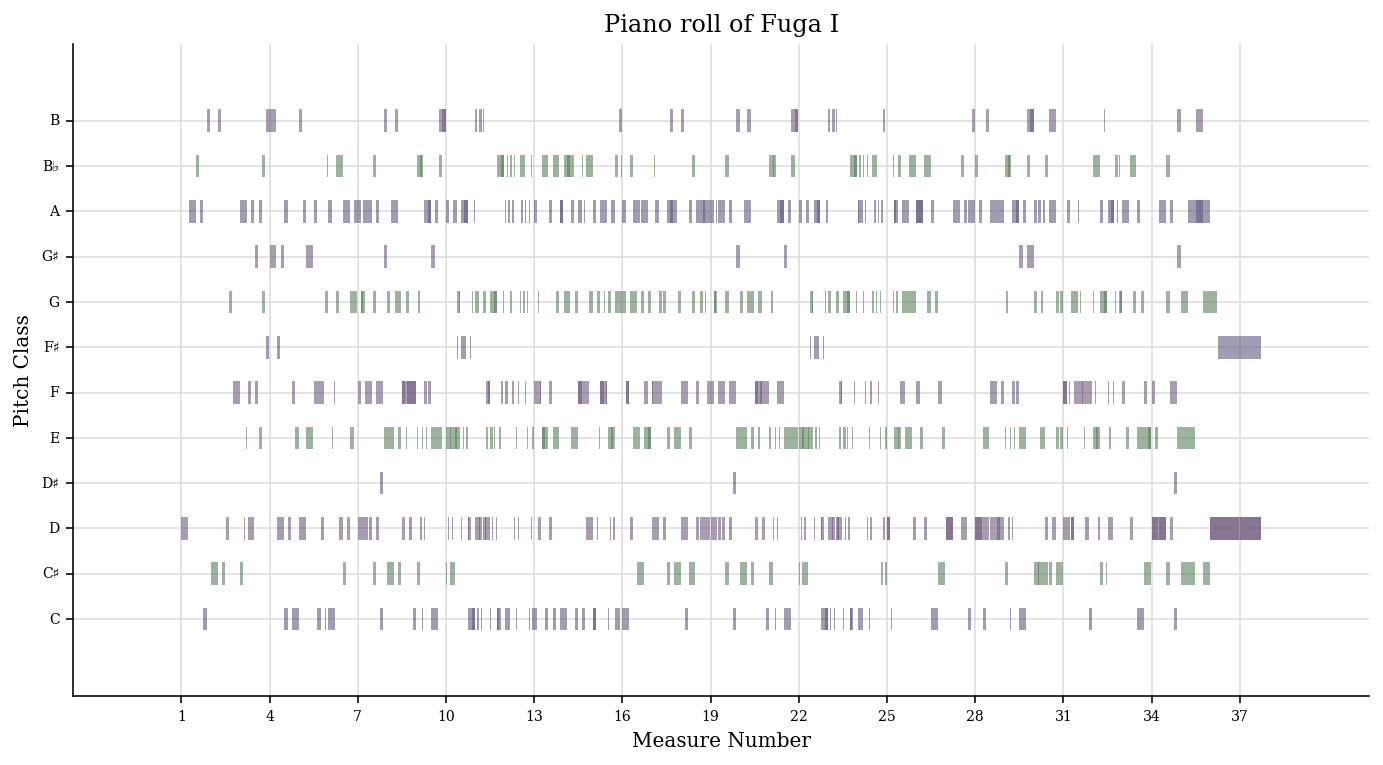
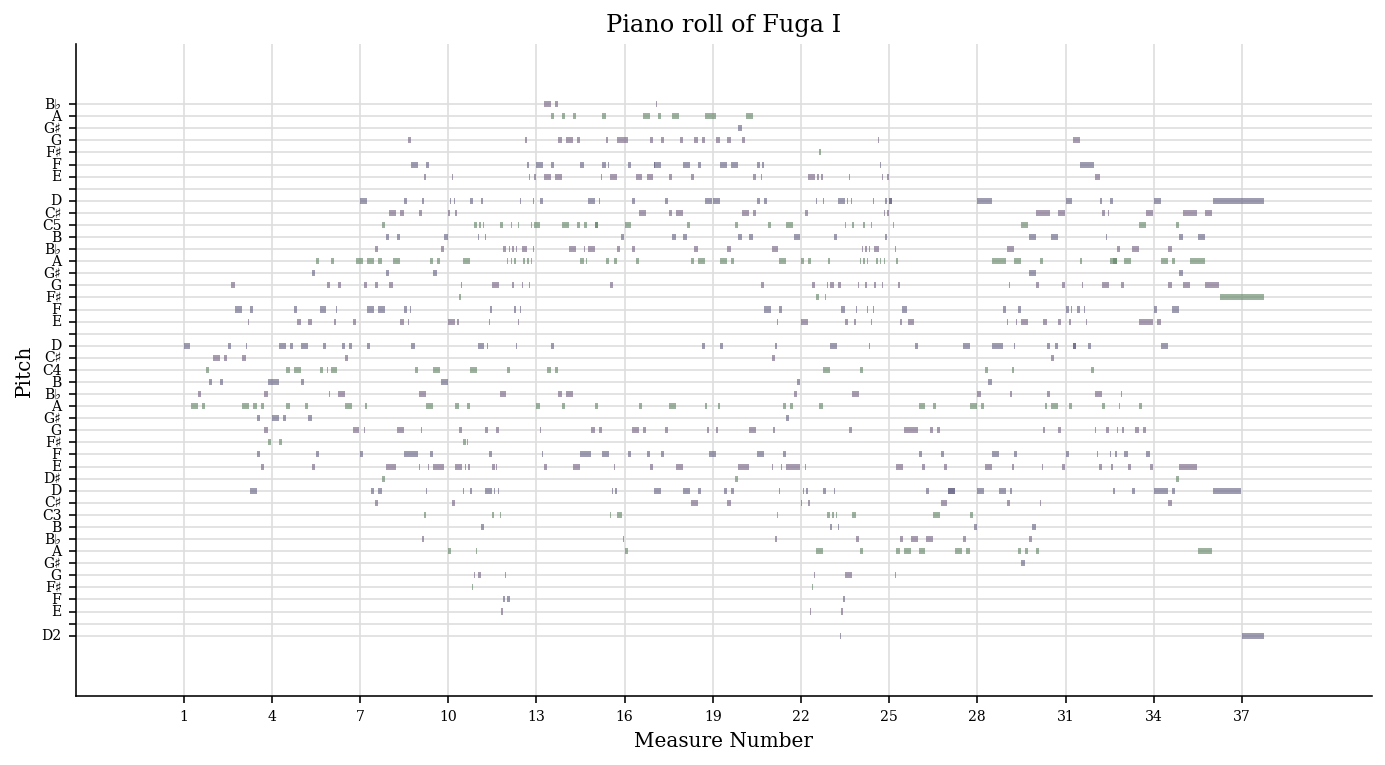
Correct missing image & add music21 version number

Changed region(s): [[0.0, 0.1203, 0.9949, 0.8418], [0.4353, 0.0, 0.5907, 0.0601], [0.4664, 0.932, 0.5907, 0.9922]]

diff --git a/public/index.html b/public/index.html
@@ -279,39 +279,39 @@ for the JavaScript code in this tag.
 <h2>Table of Contents</h2>
 <div id="text-table-of-contents">
 <ul>
-<li><a href="#orga31504f">Sitemap</a>
+<li><a href="#org3cd9d8f">Sitemap</a>
 <ul>
-<li><a href="#org8b521ba">♪&nbsp; Compositional ideas behind my Fuga I</a></li>
-<li><a href="#orgb183bf9">♪&nbsp; Some of my cryptograms to solve!</a></li>
+<li><a href="#orged55ebe">♪&nbsp; Compositional ideas behind my Fuga I</a></li>
+<li><a href="#orga215ab1">♪&nbsp; Some of my cryptograms to solve!</a></li>
 </ul>
 </li>
-<li><a href="#org5237f55">Compositional ideas behind Fuga I</a></li>
-<li><a href="#org749c023">1. Introduction</a></li>
-<li><a href="#org4ddf917">2. Music/Score</a></li>
-<li><a href="#org8b69cd2">3. Structural analysis</a>
+<li><a href="#org1a595c6">Compositional ideas behind Fuga I</a></li>
+<li><a href="#orgfd51247">1. Introduction</a></li>
+<li><a href="#orgf47c54f">2. Music/Score</a></li>
+<li><a href="#org929b780">3. Structural analysis</a>
 <ul>
-<li><a href="#org59acdc2">3.1. Structure diagram</a></li>
-<li><a href="#org9a3d5d9">3.2. Score analysis</a>
+<li><a href="#orgd816004">3.1. Structure diagram</a></li>
+<li><a href="#org33fa9bd">3.2. Score analysis</a>
 <ul>
-<li><a href="#org83b1d5b">3.2.1. Entries/episodes</a></li>
-<li><a href="#orgf15b4ea">3.2.2. Subjects/countersujects and invertible counterpoint</a></li>
+<li><a href="#org584485b">3.2.1. Entries/episodes</a></li>
+<li><a href="#orgc30b762">3.2.2. Subjects/countersujects and invertible counterpoint</a></li>
 </ul>
 </li>
 </ul>
 </li>
-<li><a href="#org8d2c778">4. Specific details</a>
+<li><a href="#org2ecc9a6">4. Specific details</a>
 <ul>
-<li><a href="#org034cc0d">4.1. Zenith/nadir of the piece</a></li>
-<li><a href="#org0d9ad8c">4.2. The strong-beat tritone in the lower voices</a></li>
-<li><a href="#org621546b">4.3. German sixth (übermässiger Quintsextakkord)</a></li>
-<li><a href="#org870ce5b">4.4. Double sequence</a></li>
+<li><a href="#org9adee14">4.1. Zenith/nadir of the piece</a></li>
+<li><a href="#orgd6b9baf">4.2. The strong-beat tritone in the lower voices</a></li>
+<li><a href="#org325fe6b">4.3. German sixth (übermässiger Quintsextakkord)</a></li>
+<li><a href="#org0f9529d">4.4. Double sequence</a></li>
 </ul>
 </li>
-<li><a href="#org8c2dd4c">5. Appendix: Computational Musicology</a>
+<li><a href="#org0d7c699">5. Appendix: Computational Musicology</a>
 <ul>
-<li><a href="#orgf753b87">5.1. Piano roll and other graphics</a></li>
-<li><a href="#org6653ad3">5.2. Key center</a></li>
-<li><a href="#org79127a9">5.3. Chords</a></li>
+<li><a href="#org01bfd74">5.1. Piano roll and other graphics</a></li>
+<li><a href="#org070297f">5.2. Key center</a></li>
+<li><a href="#orgcf6915e">5.3. Chords</a></li>
 </ul>
 </li>
 </ul>
@@ -327,19 +327,19 @@ Welcome to Francisco's personal musical "notebook/scrapbook"! This page contains
 <br />
 </p>
 
-<div id="outline-container-orga31504f" class="outline-2">
-<h2 id="orga31504f">Sitemap</h2>
-<div class="outline-text-2" id="text-orga31504f">
+<div id="outline-container-org3cd9d8f" class="outline-2">
+<h2 id="org3cd9d8f">Sitemap</h2>
+<div class="outline-text-2" id="text-org3cd9d8f">
 </div>
 
-<div id="outline-container-org8b521ba" class="outline-3">
-<h3 id="org8b521ba">♪&nbsp; <a href="index.html">Compositional ideas behind my Fuga I</a></h3>
-<div class="outline-text-3" id="text-org8b521ba">
+<div id="outline-container-orged55ebe" class="outline-3">
+<h3 id="orged55ebe">♪&nbsp; <a href="index.html">Compositional ideas behind my Fuga I</a></h3>
+<div class="outline-text-3" id="text-orged55ebe">
 </div>
 </div>
-<div id="outline-container-orgb183bf9" class="outline-3">
-<h3 id="orgb183bf9">♪&nbsp; <a href="cryptograms.html">Some of my cryptograms to solve!</a></h3>
-<div class="outline-text-3" id="text-orgb183bf9">
+<div id="outline-container-orga215ab1" class="outline-3">
+<h3 id="orga215ab1">♪&nbsp; <a href="cryptograms.html">Some of my cryptograms to solve!</a></h3>
+<div class="outline-text-3" id="text-orga215ab1">
 <p>
 <br />
 <br />
@@ -348,9 +348,9 @@ Welcome to Francisco's personal musical "notebook/scrapbook"! This page contains
 </div>
 </div>
 
-<div id="outline-container-org5237f55" class="outline-2">
-<h2 id="org5237f55">Compositional ideas behind Fuga I</h2>
-<div class="outline-text-2" id="text-org5237f55">
+<div id="outline-container-org1a595c6" class="outline-2">
+<h2 id="org1a595c6">Compositional ideas behind Fuga I</h2>
+<div class="outline-text-2" id="text-org1a595c6">
 <p>
 This is a personal note of the musical ideas that were used in the composition of my Fuga I (all rights reserved, © 2020).<br />
 <br />
@@ -358,8 +358,8 @@ This is a personal note of the musical ideas that were used in the composition o
 </div>
 </div>
 
-<div id="outline-container-org749c023" class="outline-2">
-<h2 id="org749c023"><span class="section-number-2">1</span> Introduction</h2>
+<div id="outline-container-orgfd51247" class="outline-2">
+<h2 id="orgfd51247"><span class="section-number-2">1</span> Introduction</h2>
 <div class="outline-text-2" id="text-1">
 <p>
 In the composition of this fugue in D minor, the main idea was to use the <b>B-A-C-H motif</b> within the counterpoint rules of the Baroque period&#x2014;in particular in Bach's time. This means:<br />
@@ -384,8 +384,8 @@ The ideas that were used as guiding principles this fugue were as follows:<br />
 </div>
 </div>
 
-<div id="outline-container-org4ddf917" class="outline-2">
-<h2 id="org4ddf917"><span class="section-number-2">2</span> Music/Score</h2>
+<div id="outline-container-orgf47c54f" class="outline-2">
+<h2 id="orgf47c54f"><span class="section-number-2">2</span> Music/Score</h2>
 <div class="outline-text-2" id="text-2">
 <p>
 The score can be found below, and the fugue can be played here:<br />
@@ -402,20 +402,20 @@ Your browser does not support the audio element.
 </div>
 </div>
 
-<div id="outline-container-org8b69cd2" class="outline-2">
-<h2 id="org8b69cd2"><span class="section-number-2">3</span> Structural analysis</h2>
+<div id="outline-container-org929b780" class="outline-2">
+<h2 id="org929b780"><span class="section-number-2">3</span> Structural analysis</h2>
 <div class="outline-text-2" id="text-3">
 <p>
-The structure diagram is shown in Figure <a href="#orgde3a239">1</a>. which shows schematically the location of the subject, countersubjects, episodes and the invertible counterpoints (inv. c.) amongst other indications. The scores with these indications can then be found in Subsection <a href="#org9a3d5d9">3.2</a>. The structure of the fugue with entries and episodes are shown on the <a href="#org83b1d5b">first score</a>. The highlighted subject,<br />
-countersubjects and the inverted counterpoint are detailed on the <a href="#orgf15b4ea">second score</a>.<br />
+The structure diagram is shown in Figure <a href="#org8380134">1</a>. which shows schematically the location of the subject, countersubjects, episodes and the invertible counterpoints (inv. c.) amongst other indications. The scores with these indications can then be found in Subsection <a href="#org33fa9bd">3.2</a>. The structure of the fugue with entries and episodes are shown on the <a href="#org584485b">first score</a>. The highlighted subject,<br />
+countersubjects and the inverted counterpoint are detailed on the <a href="#orgc30b762">second score</a>.<br />
 </p>
 </div>
 
-<div id="outline-container-org59acdc2" class="outline-3">
-<h3 id="org59acdc2"><span class="section-number-3">3.1</span> Structure diagram</h3>
+<div id="outline-container-orgd816004" class="outline-3">
+<h3 id="orgd816004"><span class="section-number-3">3.1</span> Structure diagram</h3>
 <div class="outline-text-3" id="text-3-1">
 
-<div id="orgde3a239" class="figure">
+<div id="org8380134" class="figure">
 <p><img src="./docs/assets/images/fuga_1/structure_table/fuga_1-analysis.png" alt="Fuga I image" title="Fuga I" align="center" /><br />
 </p>
 <p><span class="figure-number">Figure 1: </span>Structure diagram</p>
@@ -429,12 +429,12 @@ There is a notable deceptive cadence in measure 5 (V &rarr; VI [I]) and a quite 
 </div>
 </div>
 
-<div id="outline-container-org9a3d5d9" class="outline-3">
-<h3 id="org9a3d5d9"><span class="section-number-3">3.2</span> Score analysis</h3>
+<div id="outline-container-org33fa9bd" class="outline-3">
+<h3 id="org33fa9bd"><span class="section-number-3">3.2</span> Score analysis</h3>
 <div class="outline-text-3" id="text-3-2">
 </div>
-<div id="outline-container-org83b1d5b" class="outline-4">
-<h4 id="org83b1d5b"><span class="section-number-4">3.2.1</span> Entries/episodes</h4>
+<div id="outline-container-org584485b" class="outline-4">
+<h4 id="org584485b"><span class="section-number-4">3.2.1</span> Entries/episodes</h4>
 <div class="outline-text-4" id="text-3-2-1">
 <p alt="Entries/episodes analysis image" title="Entries/episodes analysis" align="center">
 <img src="./docs/assets/images/fuga_1/scores/Fuga_I-analyse-structure-1.png" alt="Entries/episodes analysis image" title="Entries/episodes analysis" align="center" /><br />
@@ -443,8 +443,8 @@ There is a notable deceptive cadence in measure 5 (V &rarr; VI [I]) and a quite 
 </div>
 </div>
 
-<div id="outline-container-orgf15b4ea" class="outline-4">
-<h4 id="orgf15b4ea"><span class="section-number-4">3.2.2</span> Subjects/countersujects and invertible counterpoint</h4>
+<div id="outline-container-orgc30b762" class="outline-4">
+<h4 id="orgc30b762"><span class="section-number-4">3.2.2</span> Subjects/countersujects and invertible counterpoint</h4>
 <div class="outline-text-4" id="text-3-2-2">
 <p alt="Subjects/countersujects and invertible counterpoint image" title="Subjects/countersujects and invertible counterpoint" align="center">
 <img src="./docs/assets/images/fuga_1/scores/Fuga_I-analyse-sujets+counterpoint-1.png" alt="Subjects/countersujects and invertible counterpoint image" title="Subjects/countersujects and invertible counterpoint" align="center" /><br />
@@ -455,12 +455,12 @@ There is a notable deceptive cadence in measure 5 (V &rarr; VI [I]) and a quite 
 </div>
 </div>
 
-<div id="outline-container-org8d2c778" class="outline-2">
-<h2 id="org8d2c778"><span class="section-number-2">4</span> Specific details</h2>
+<div id="outline-container-org2ecc9a6" class="outline-2">
+<h2 id="org2ecc9a6"><span class="section-number-2">4</span> Specific details</h2>
 <div class="outline-text-2" id="text-4">
 </div>
-<div id="outline-container-org034cc0d" class="outline-3">
-<h3 id="org034cc0d"><span class="section-number-3">4.1</span> Zenith/nadir of the piece</h3>
+<div id="outline-container-org9adee14" class="outline-3">
+<h3 id="org9adee14"><span class="section-number-3">4.1</span> Zenith/nadir of the piece</h3>
 <div class="outline-text-3" id="text-4-1">
 <p>
 The piece has a brief central part in the relative major (F major). The zenith of this fugue is in this F major section, which is generally in the higher pitch registry. The D minor section, in contrast, is much more grounded in the lower pitch registry.<br />
@@ -468,8 +468,8 @@ The piece has a brief central part in the relative major (F major). The zenith o
 </div>
 </div>
 
-<div id="outline-container-org0d9ad8c" class="outline-3">
-<h3 id="org0d9ad8c"><span class="section-number-3">4.2</span> The strong-beat tritone in the lower voices</h3>
+<div id="outline-container-orgd6b9baf" class="outline-3">
+<h3 id="orgd6b9baf"><span class="section-number-3">4.2</span> The strong-beat tritone in the lower voices</h3>
 <div class="outline-text-3" id="text-4-2">
 <p>
 In measure 9 (episode 2-1), the two lower voices form a tritone on the very first beat (<b>E</b> and \(\textbf{B}\flat\)) which is not allowed in principle (the fact that the dissonant interval is with the bass AND the fact that the dissonance is on the first beat). This is the only place in this fugue where such a dissonance occur, and this is to stress the B-A-C-H motif that enters with an augmentation with respect to the subject.<br />
@@ -477,11 +477,11 @@ In measure 9 (episode 2-1), the two lower voices form a tritone on the very firs
 </div>
 </div>
 
-<div id="outline-container-org621546b" class="outline-3">
-<h3 id="org621546b"><span class="section-number-3">4.3</span> German sixth (übermässiger Quintsextakkord)</h3>
+<div id="outline-container-org325fe6b" class="outline-3">
+<h3 id="org325fe6b"><span class="section-number-3">4.3</span> German sixth (übermässiger Quintsextakkord)</h3>
 <div class="outline-text-3" id="text-4-3">
 
-<div id="orgcb7ce00" class="figure">
+<div id="orgf98db66" class="figure">
 <p><img src="./docs/assets/images/fuga_1/german_sixth.png" alt="german_sixth.png" /><br />
 </p>
 <p><span class="figure-number">Figure 2: </span>(Suggested) German sixth chord without the fifth.</p>
@@ -501,11 +501,11 @@ The <b>D\(\sharp\)</b> (<b>Dis</b>) suggests the <b>VII</b> degree of <b>E</b>, 
 </div>
 </div>
 
-<div id="outline-container-org870ce5b" class="outline-3">
-<h3 id="org870ce5b"><span class="section-number-3">4.4</span> Double sequence</h3>
+<div id="outline-container-org0f9529d" class="outline-3">
+<h3 id="org0f9529d"><span class="section-number-3">4.4</span> Double sequence</h3>
 <div class="outline-text-3" id="text-4-4">
 
-<div id="org7495d3d" class="figure">
+<div id="org2b3e30d" class="figure">
 <p><img src="./docs/assets/images/fuga_1/double_sequence.png" alt="double_sequence.png" /><br />
 </p>
 <p><span class="figure-number">Figure 3: </span>The double sequence with the pattern and imitative sequence used in all the voices.</p>
@@ -520,7 +520,7 @@ Harmonically, the passage goes through the cycle of fifths "downwards". At the e
 </p>
 
 
-<div id="org07303bd" class="figure">
+<div id="org60afaba" class="figure">
 <p><img src="./docs/assets/images/fuga_1/double_sequence-end.png" alt="double_sequence-end.png" /><br />
 </p>
 <p><span class="figure-number">Figure 4: </span>Measure wrapping up the double sequence which is again an imitative sequence.</p>
@@ -533,15 +533,15 @@ Following the idea of <i>pattern &rarr; sequence &rarr; contrast</i> (or <i>idea
 </div>
 </div>
 
-<div id="outline-container-org8c2dd4c" class="outline-2">
-<h2 id="org8c2dd4c"><span class="section-number-2">5</span> Appendix: Computational Musicology</h2>
+<div id="outline-container-org0d7c699" class="outline-2">
+<h2 id="org0d7c699"><span class="section-number-2">5</span> Appendix: Computational Musicology</h2>
 <div class="outline-text-2" id="text-5">
 <p>
-We now analyse the fugue with <a href="https://web.mit.edu/music21/"><code>music21</code></a>, a <i>python</i> package developed by MIT for computer-aided musicology.<br />
+We now analyse the fugue with <a href="https://web.mit.edu/music21/"><code>music21</code></a> (v6.7 in this appendix), a <i>python</i> package developed by MIT for computer-aided musicology.<br />
 </p>
 </div>
-<div id="outline-container-orgf753b87" class="outline-3">
-<h3 id="orgf753b87"><span class="section-number-3">5.1</span> Piano roll and other graphics</h3>
+<div id="outline-container-org01bfd74" class="outline-3">
+<h3 id="org01bfd74"><span class="section-number-3">5.1</span> Piano roll and other graphics</h3>
 <div class="outline-text-3" id="text-5-1">
 <p>
 First initialise <code>music21</code>:<br />
@@ -592,7 +592,7 @@ roll.run()
 
 
 <div class="figure">
-<p><img src="./docs/assets/images/fuga_1/pianoRoll.png" alt="pianoRoll.png" /><br />
+<p><img src="./docs/assets/images/fuga_1/pitchClass.png" alt="pitchClass.png" /><br />
 </p>
 </div>
 
@@ -635,8 +635,8 @@ plt.show()
 </div>
 </div>
 
-<div id="outline-container-org6653ad3" class="outline-3">
-<h3 id="org6653ad3"><span class="section-number-3">5.2</span> Key center</h3>
+<div id="outline-container-org070297f" class="outline-3">
+<h3 id="org070297f"><span class="section-number-3">5.2</span> Key center</h3>
 <div class="outline-text-3" id="text-5-2">
 <p>
 The key is found using the <a href="https://rnhart.net/articles/key-finding/">Krumhansl-Schmuckler key-finding algorithm</a> which uses the correlation coefficient<br />
@@ -783,8 +783,8 @@ And in 3D:<br />
 </div>
 </div>
 
-<div id="outline-container-org79127a9" class="outline-3">
-<h3 id="org79127a9"><span class="section-number-3">5.3</span> Chords</h3>
+<div id="outline-container-orgcf6915e" class="outline-3">
+<h3 id="orgcf6915e"><span class="section-number-3">5.3</span> Chords</h3>
 <div class="outline-text-3" id="text-5-3">
 <p>
 We now combine the three voices into <code>Chord</code> objects:<br />
@@ -922,7 +922,7 @@ With the chords, it is possible to analyse the key of each measures:<br />
 </p>
 
 <p align="right">
-<a href="#orga31504f" align="right">Back to the sitemap</a><br />
+<a href="#org3cd9d8f" align="right">Back to the sitemap</a><br />
 </p>
 
 <p>

diff --git a/public/cryptograms.html b/public/cryptograms.html
@@ -257,13 +257,13 @@ for the JavaScript code in this tag.
 <h2>Table of Contents</h2>
 <div id="text-table-of-contents">
 <ul>
-<li><a href="#org7fbc252">Sitemap</a>
+<li><a href="#org4176f97">Sitemap</a>
 <ul>
-<li><a href="#orgda5b3ec">♪&nbsp; Compositional ideas behind my Fuga I</a></li>
-<li><a href="#org795d514">♪&nbsp; Some of my cryptograms to solve!</a></li>
+<li><a href="#org5f2011a">♪&nbsp; Compositional ideas behind my Fuga I</a></li>
+<li><a href="#org5f481c4">♪&nbsp; Some of my cryptograms to solve!</a></li>
 </ul>
 </li>
-<li><a href="#orga7de0d4">Musical cryptograms</a></li>
+<li><a href="#org4b95957">Musical cryptograms</a></li>
 </ul>
 </div>
 </div>
@@ -275,19 +275,19 @@ for the JavaScript code in this tag.
 Welcome to Francisco's personal musical "notebook/scrapbook"! This page contains notes, scribbles and doodles for my personal use, but you are very welcome to have a look at them!<br />
 </p>
 
-<div id="outline-container-org7fbc252" class="outline-2">
-<h2 id="org7fbc252">Sitemap</h2>
-<div class="outline-text-2" id="text-org7fbc252">
+<div id="outline-container-org4176f97" class="outline-2">
+<h2 id="org4176f97">Sitemap</h2>
+<div class="outline-text-2" id="text-org4176f97">
 </div>
 
-<div id="outline-container-orgda5b3ec" class="outline-3">
-<h3 id="orgda5b3ec">♪&nbsp; <a href="index.html">Compositional ideas behind my Fuga I</a></h3>
-<div class="outline-text-3" id="text-orgda5b3ec">
+<div id="outline-container-org5f2011a" class="outline-3">
+<h3 id="org5f2011a">♪&nbsp; <a href="index.html">Compositional ideas behind my Fuga I</a></h3>
+<div class="outline-text-3" id="text-org5f2011a">
 </div>
 </div>
-<div id="outline-container-org795d514" class="outline-3">
-<h3 id="org795d514">♪&nbsp; <a href="cryptograms.html">Some of my cryptograms to solve!</a></h3>
-<div class="outline-text-3" id="text-org795d514">
+<div id="outline-container-org5f481c4" class="outline-3">
+<h3 id="org5f481c4">♪&nbsp; <a href="cryptograms.html">Some of my cryptograms to solve!</a></h3>
+<div class="outline-text-3" id="text-org5f481c4">
 <p>
 <br />
 <br />
@@ -296,9 +296,9 @@ Welcome to Francisco's personal musical "notebook/scrapbook"! This page contains
 </div>
 </div>
 
-<div id="outline-container-orga7de0d4" class="outline-2">
-<h2 id="orga7de0d4">Musical cryptograms</h2>
-<div class="outline-text-2" id="text-orga7de0d4">
+<div id="outline-container-org4b95957" class="outline-2">
+<h2 id="org4b95957">Musical cryptograms</h2>
+<div class="outline-text-2" id="text-org4b95957">
 <p>
 A musical cryptogram has been used by Westerns composers to transcribe a text into music and vice versa. Here are some of the cryptograms that I have written for fun! The pdf file (written in French) can be downloaded <a href="docs/assets/images/cryptograms/cryptogrammes.pdf">here</a>!<br />
 </p>
@@ -309,7 +309,7 @@ A musical cryptogram has been used by Westerns composers to transcribe a text in
 </p>
 
 <p align="right">
-<a href="#org7fbc252" align="right">Back to the sitemap</a><br />
+<a href="#org4176f97" align="right">Back to the sitemap</a><br />
 </p>
 
 <p>
